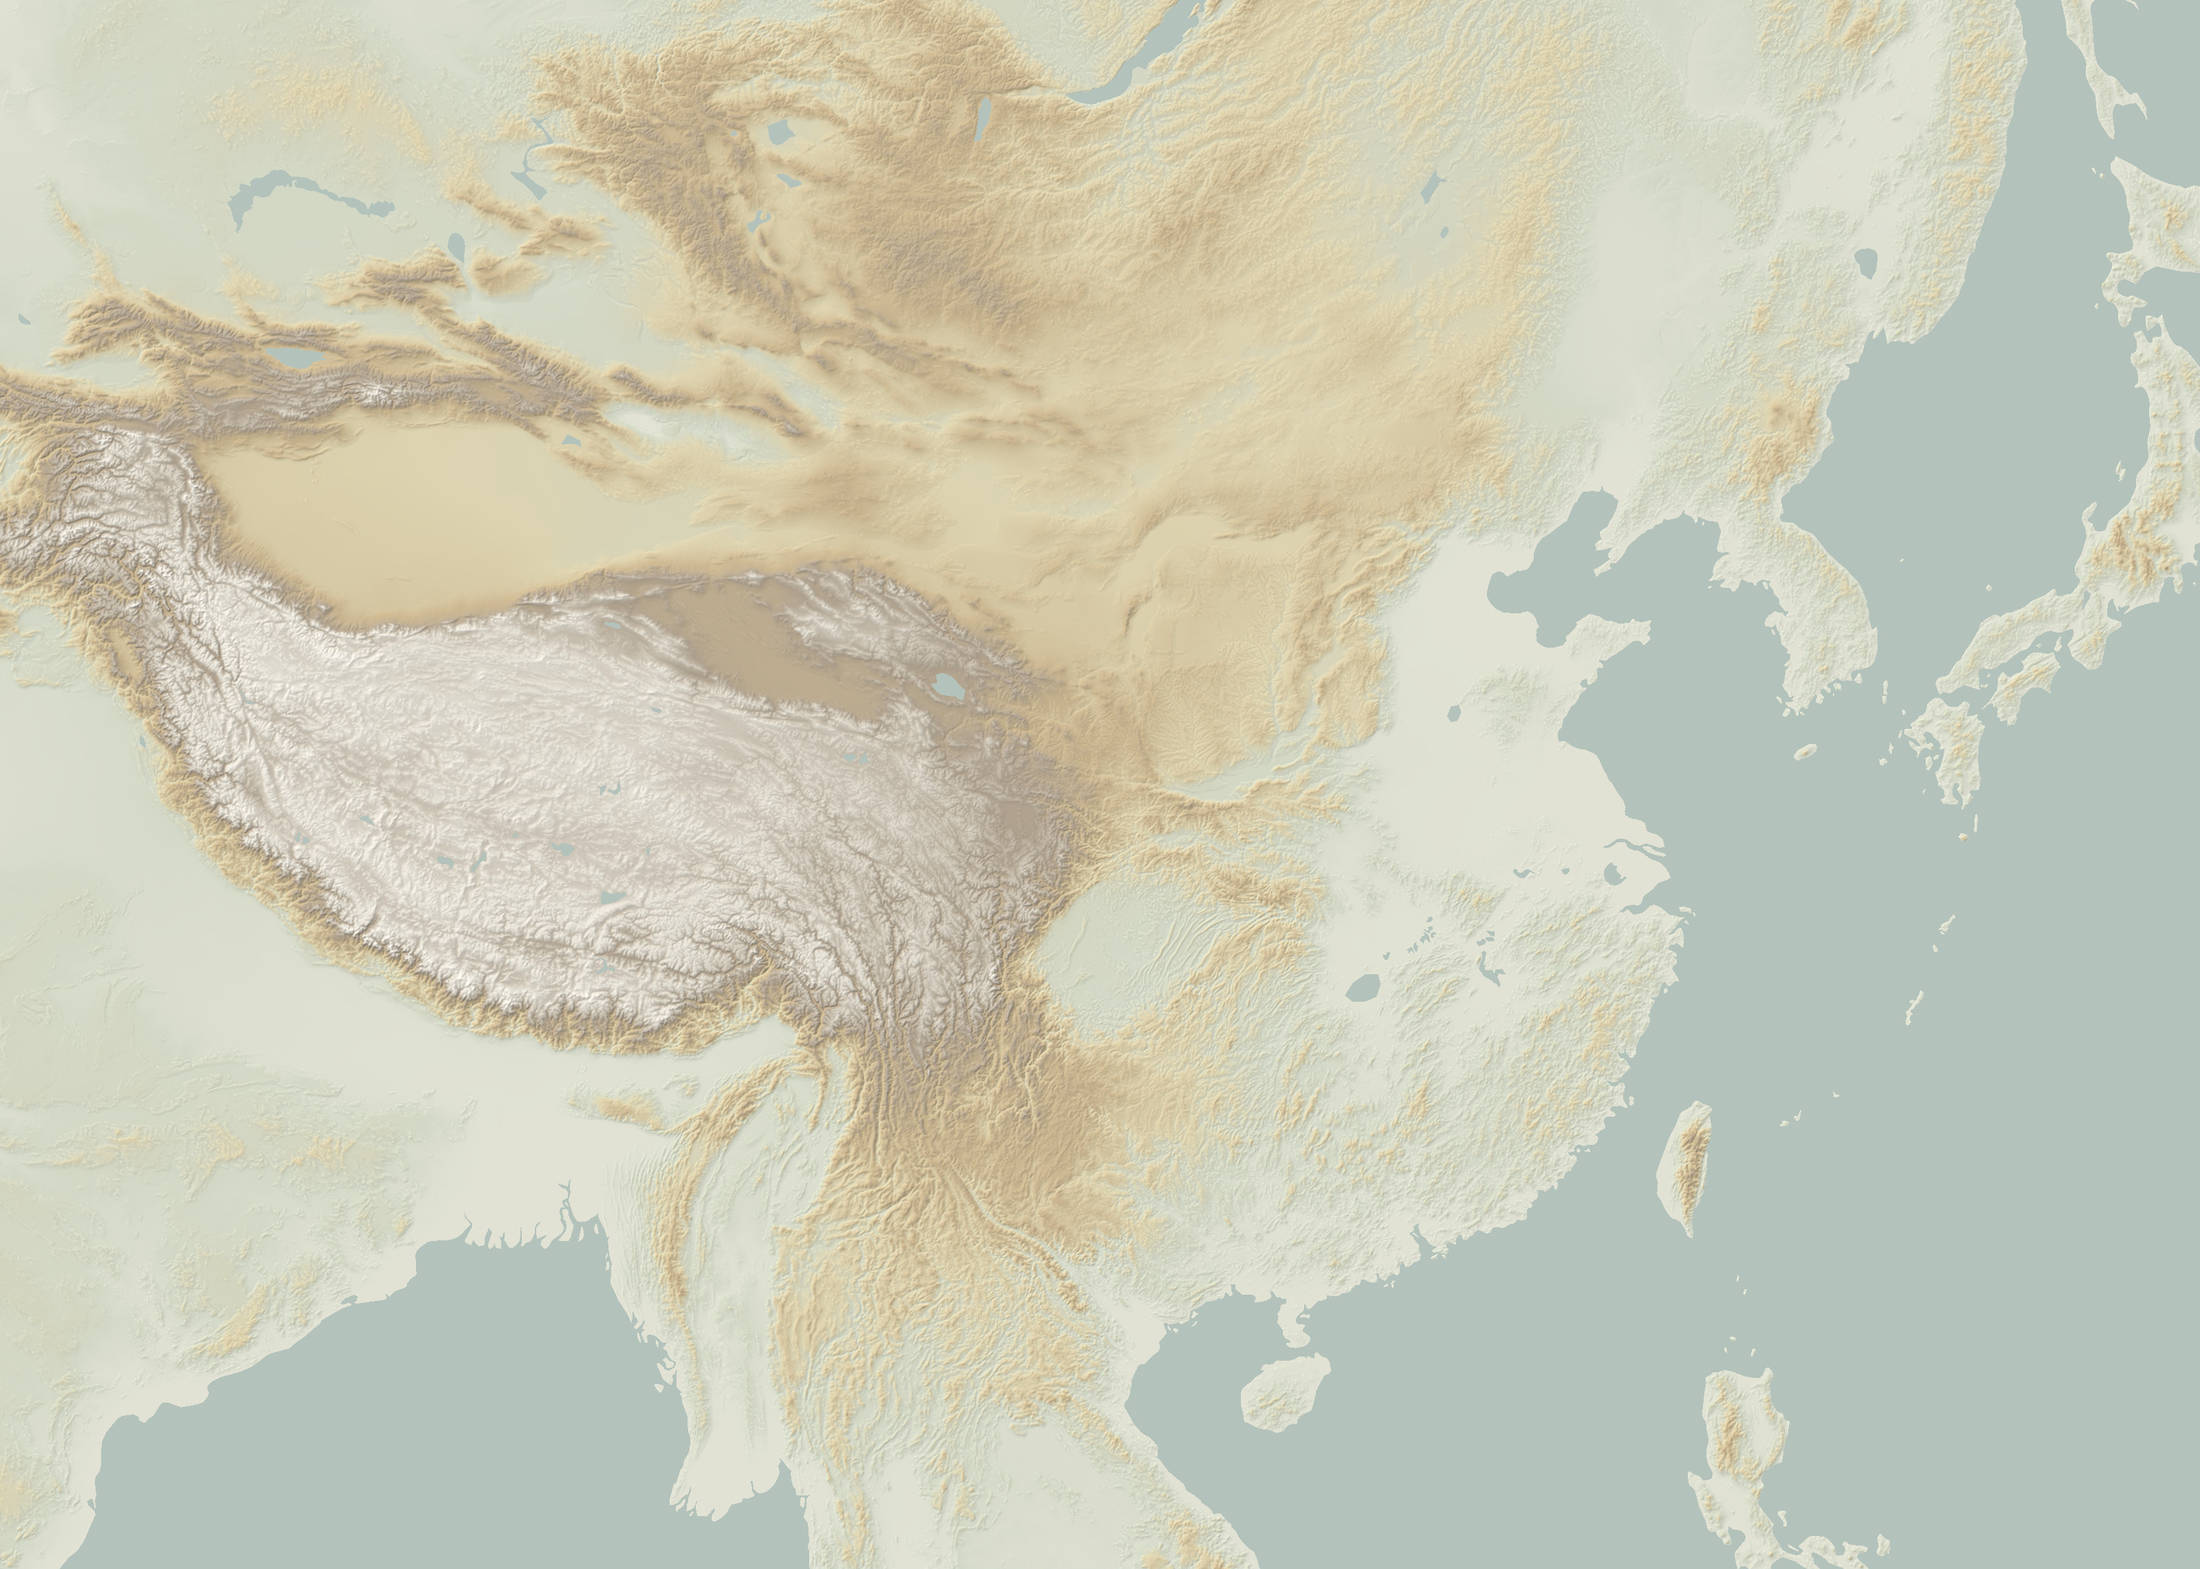
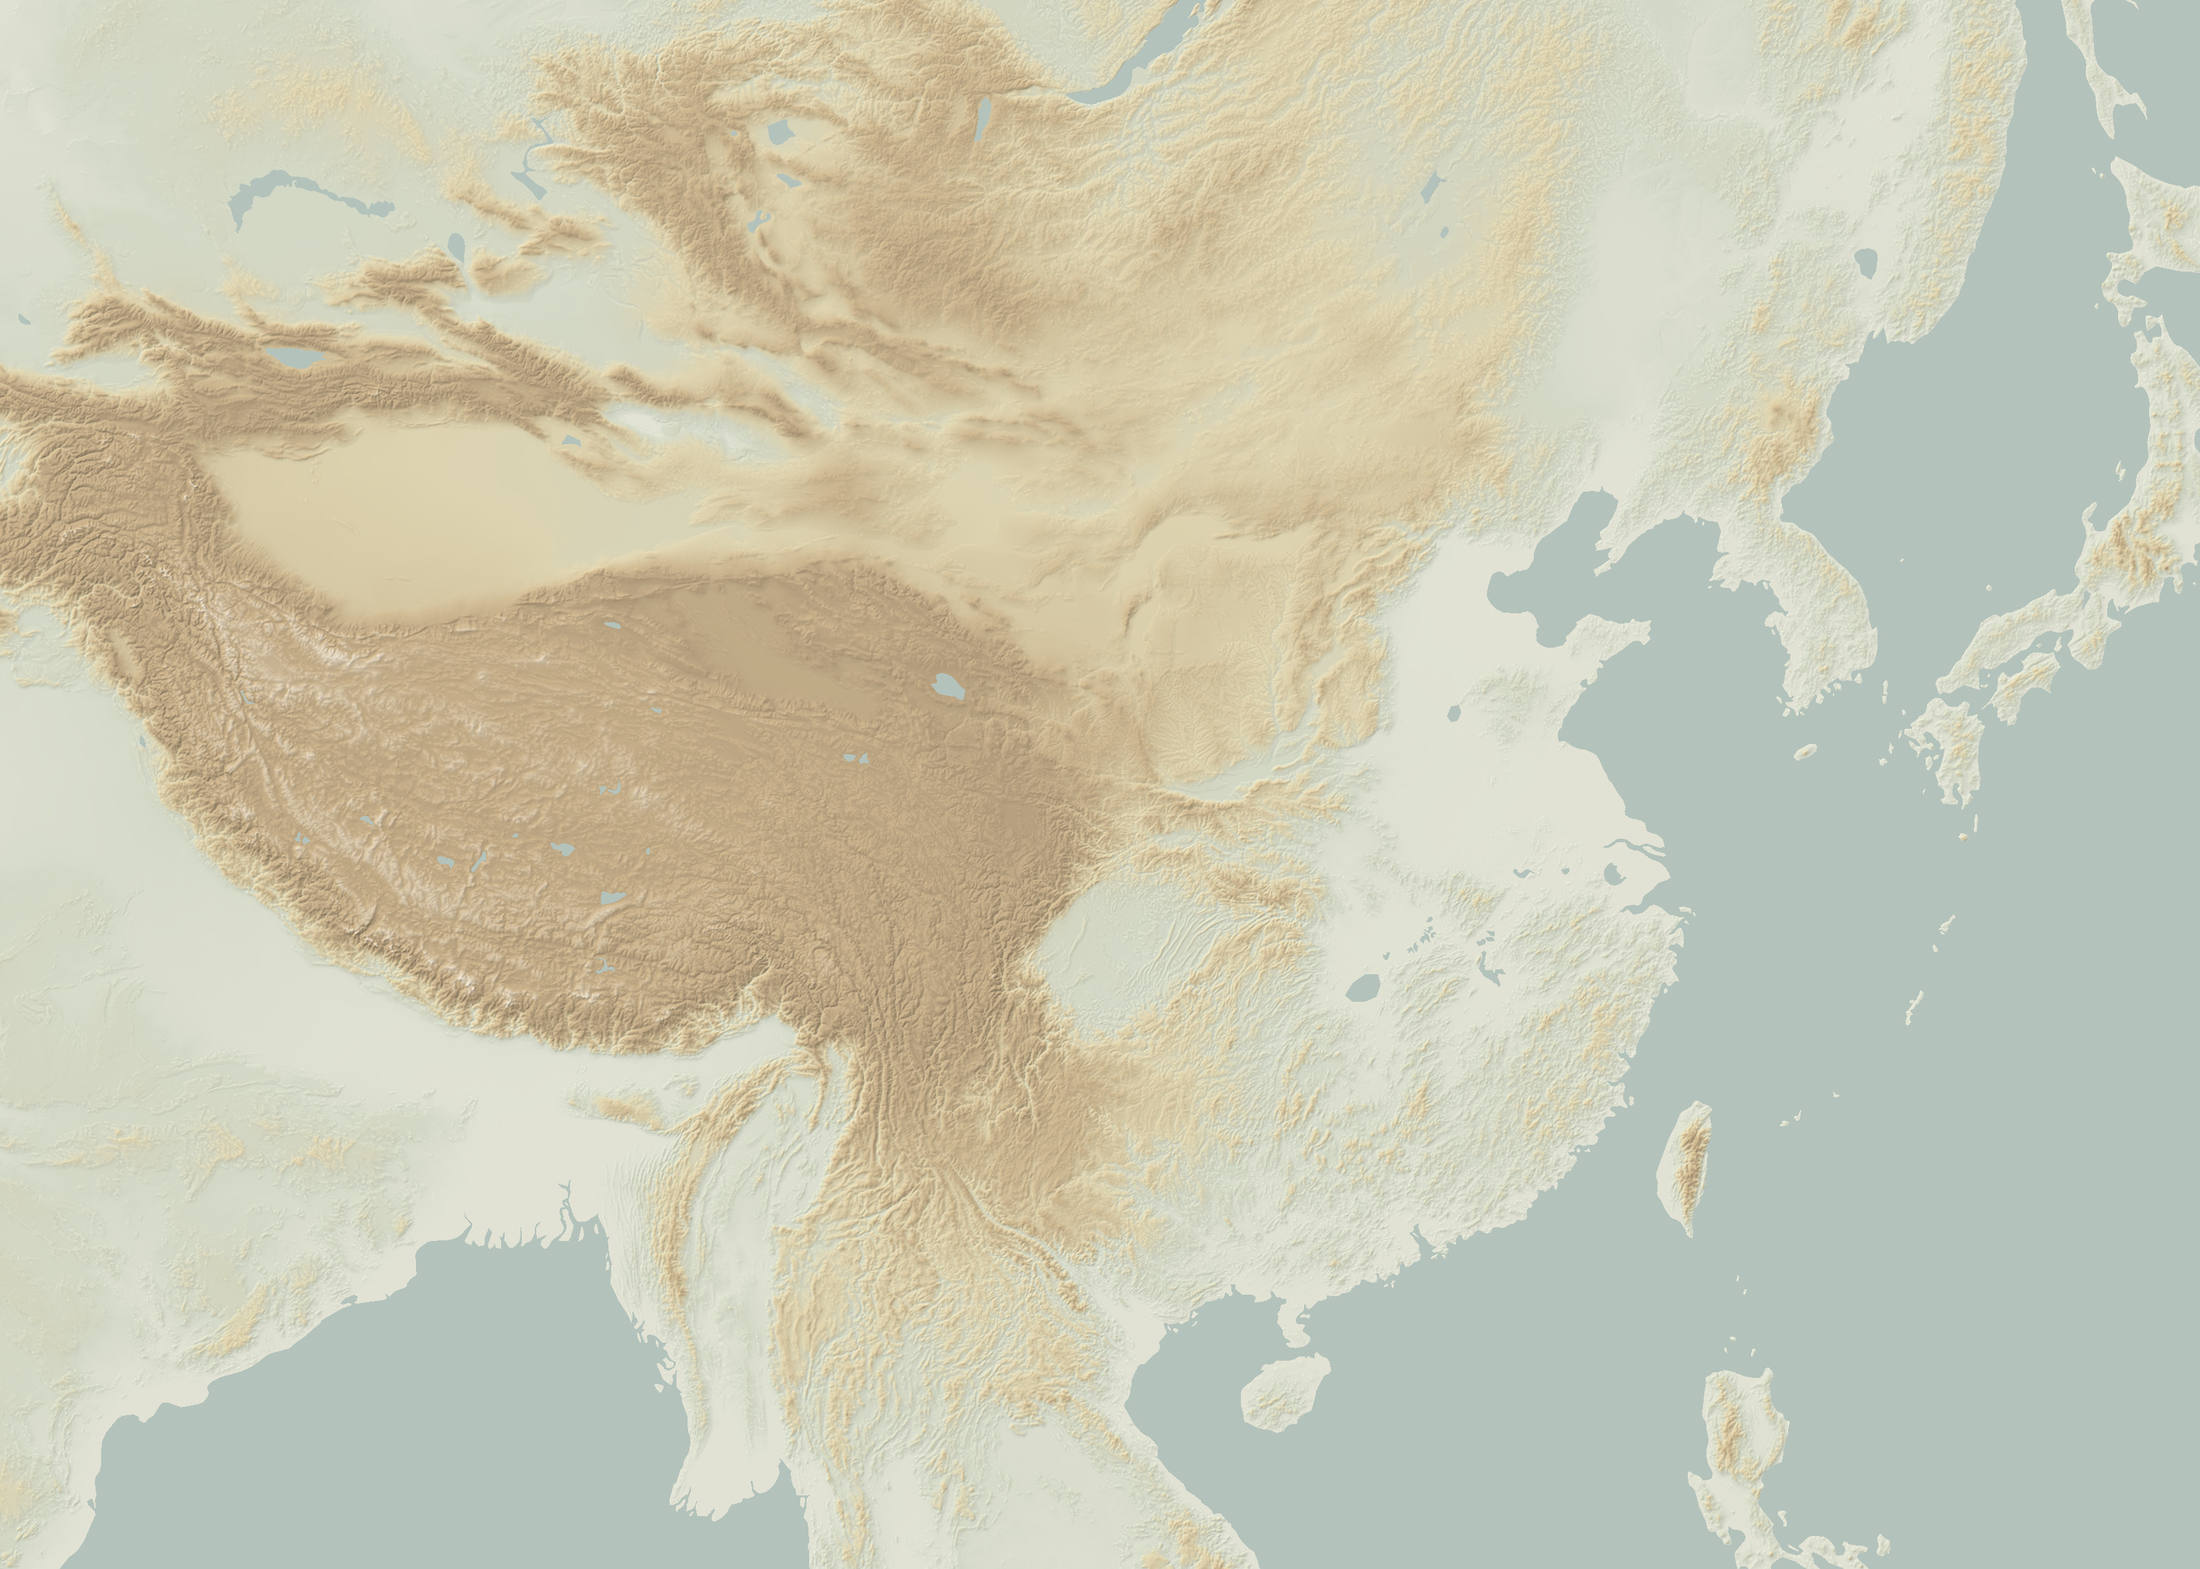
地形：D 配色高原改淡赭，雪线以上才转白；重出内嵌底图

Changed region(s): [[0.0, 0.2186, 0.4945, 0.6871]]

diff --git a/tools/relief.py b/tools/relief.py
@@ -81,7 +81,7 @@ for _colour in PALETTES['B'][:3]:
     _muted = colorsys.hsv_to_rgb(_h, _s*2/3, _v)
     _paper = (238/255, 229/255, 208/255)
     _low.append('#'+''.join(f'{round(255*(.75*a+.25*b)):02x}' for a, b in zip(_muted, _paper)))
-PALETTES['D'] = _low + PALETTES['B'][3:]
+PALETTES['D'] = _low + ['#ddd3b0', '#c9b58f', '#b6a07f', '#c4ad88', '#e2d8c6']
 D = {'strength': 1.05, 'local_sigma_m': 2400, 'gain_max': 4.0,
      'std_floor_m': 5, 'std_gate_m': 25, 'std_decay_m': 85,
      'relative_amount': .08, 'relative_floor_m': 18,
